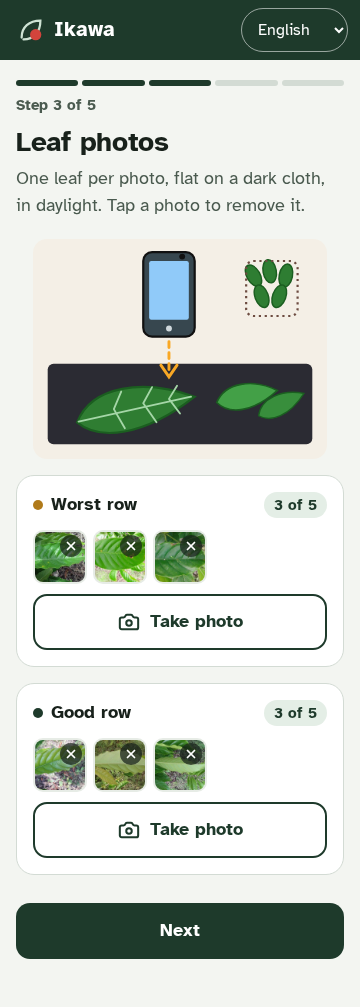
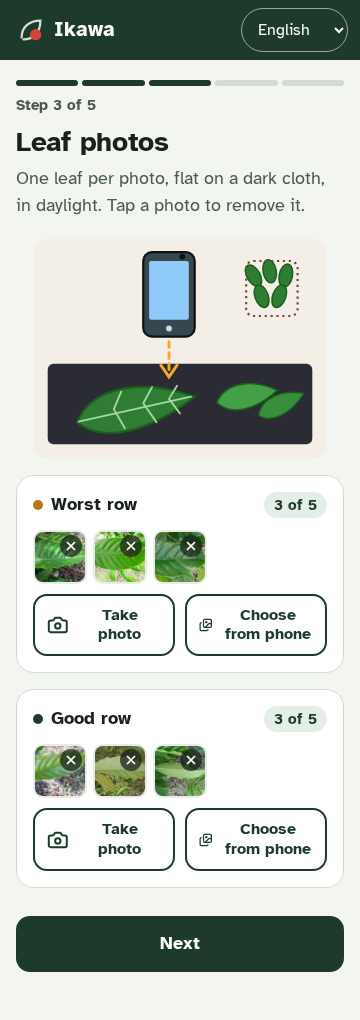
Photos: add 'Choose from phone' (gallery, several at once) next to 'Take photo'
The camera input keeps capture=environment; a second input without capture lets
the phone offer its gallery and files, and accepts multiple photos. Each file
goes through the same photo gate and model. New e2e test covers it.

diff --git a/app/src/screens/photos.tsx b/app/src/screens/photos.tsx
@@ -1,18 +1,25 @@
 import { useRef, useState } from 'preact/hooks'
-import { Camera, Loader2, X } from 'lucide-preact'
+import { Camera, Images, Loader2, X } from 'lucide-preact'
 import { go } from '../app'
 import { session, update, useSession, type Shot } from '../lib/session'
 import { processBlob } from '../lib/shots'
-import { t } from '../content/i18n'
+import { t, tOr } from '../content/i18n'
 import { MIN_LEAVES, TARGET_LEAVES } from '../lib/analyze'
 import { Btn, Screen, OptImg } from './ui'
 
 const REASON: Record<string, string> = { blurry: 'Blurry: hold still', too_dark: 'Too dark: find light', too_bright: 'Too bright: shade it' }
 
 function Bag({ title, tone, shots, onAdd, onRemove }: { title: string; tone: 'worst' | 'good'; shots: Shot[]; onAdd: (f: File) => Promise<void>; onRemove: (i: number) => void }) {
-  const ref = useRef<HTMLInputElement>(null)
+  const cam = useRef<HTMLInputElement>(null)
+  const gallery = useRef<HTMLInputElement>(null)
   const [busy, setBusy] = useState(false)
   const ok = shots.filter((s) => s.gate.ok).length
+  // Each chosen file goes through the same photo gate and model, one after another.
+  const addFiles = async (input: HTMLInputElement) => {
+    const files = Array.from(input.files ?? []); input.value = ''
+    if (!files.length) return
+    setBusy(true); try { for (const f of files) await onAdd(f) } finally { setBusy(false) }
+  }
   return (
     <section class={'bag ' + tone}>
       <div class="bag-head">
@@ -30,12 +37,17 @@ function Bag({ title, tone, shots, onAdd, onRemove }: { title: string; tone: 'wo
           ))}
         </div>
       )}
-      <input ref={ref} type="file" accept="image/*" capture="environment" hidden onChange={async (e) => {
-        const f = e.currentTarget.files?.[0]; e.currentTarget.value = ''
-        if (!f) return
-        setBusy(true); try { await onAdd(f) } finally { setBusy(false) }
-      }} />
-      <Btn kind="secondary" icon={busy ? Loader2 : Camera} disabled={busy} onClick={() => ref.current?.click()}>{busy ? 'Checking the photo…' : t('take_photo')}</Btn>
+      {/* `capture` opens the camera straight away; the second input has none, so the phone offers its gallery and files. */}
+      <input ref={cam} data-src="camera" type="file" accept="image/*" capture="environment" hidden onChange={(e) => addFiles(e.currentTarget)} />
+      <input ref={gallery} data-src="gallery" type="file" accept="image/*" multiple hidden onChange={(e) => addFiles(e.currentTarget)} />
+      {busy
+        ? <Btn kind="secondary" icon={Loader2} disabled>Checking the photos…</Btn>
+        : (
+          <div class="pair-row">
+            <Btn kind="secondary" icon={Camera} onClick={() => cam.current?.click()}>{t('take_photo')}</Btn>
+            <Btn kind="secondary" icon={Images} onClick={() => gallery.current?.click()}>{tOr('choose_photo', 'Choose from phone')}</Btn>
+          </div>
+        )}
     </section>
   )
 }

diff --git a/app/e2e/gallery.spec.ts b/app/e2e/gallery.spec.ts
@@ -1,0 +1,19 @@
+import { test, expect } from '@playwright/test'
+import { resolve } from 'node:path'
+const demo = (n: string) => resolve(import.meta.dirname, '../public/demo', n + '.jpg')
+
+// "Choose from phone": a gallery picker (no `capture`, so the phone does not force the camera) that accepts several photos at once.
+test('choose several photos from the phone at once', async ({ page }) => {
+  await page.goto('./#/home')
+  await page.getByLabel('PIN').fill('4821')
+  await page.getByRole('button', { name: /Set PIN|Unlock/ }).click()
+  await page.goto('./#/photos')
+  const worstGallery = page.locator('.bag.worst input[type=file][data-src=gallery]')
+  await expect(worstGallery).toHaveAttribute('multiple', '')
+  expect(await worstGallery.getAttribute('capture')).toBeNull()
+  expect(await page.locator('.bag.worst input[data-src=camera]').getAttribute('capture')).toBe('environment')
+  await expect(page.getByRole('button', { name: 'Choose from phone' }).first()).toBeVisible()
+  await worstGallery.setInputFiles([demo('rust1'), demo('rust2'), demo('rust3')])
+  await expect(page.locator('.bag.worst .thumb')).toHaveCount(3, { timeout: 60_000 })
+  await expect(page.locator('.bag.good .thumb')).toHaveCount(0)
+})

diff --git a/app/e2e/real.spec.ts b/app/e2e/real.spec.ts
@@ -13,7 +13,7 @@ async function run(page: Page, worst: string[], good: string[]) {
   await page.getByRole('button', { name: 'Next' }).click()
   await expect(page.getByRole('heading', { name: 'Voice setup' })).toBeVisible()
   await page.getByRole('button', { name: /Skip/ }).click()
-  const inputs = page.locator('input[type=file]')
+  const inputs = page.locator('input[type=file][data-src=camera]')
   for (const f of worst) await inputs.nth(0).setInputFiles(f)
   for (const f of good) await inputs.nth(1).setInputFiles(f)
   await expect(page.locator('.thumb')).toHaveCount(worst.length + good.length, { timeout: 60_000 })

diff --git a/app/e2e/healthy.spec.ts b/app/e2e/healthy.spec.ts
@@ -20,7 +20,7 @@ test('all-healthy leaves -> "Your leaves look healthy", no money card, SMS still
   for (const h of await page.getByRole('button', { name: /Yes/ }).all()) await h.click()
   await page.getByRole('button', { name: 'Next' }).click()
   await page.getByRole('button', { name: /Skip/ }).click()
-  const inputs = page.locator('input[type=file]')
+  const inputs = page.locator('input[type=file][data-src=camera]')
   for (const f of WORST) await inputs.nth(0).setInputFiles(f)
   for (const f of GOOD) await inputs.nth(1).setInputFiles(f)
   await expect(page.locator('.thumb')).toHaveCount(10, { timeout: 90_000 })

diff --git a/app/e2e/flow.ts b/app/e2e/flow.ts
@@ -32,7 +32,7 @@ export async function walk(page: Page, snap?: (name: string) => Promise<void>) {
   await s('05-voice-done')
   await btn('Next').click()
   await expect(page.getByRole('heading', { name: 'Leaf photos' })).toBeVisible()
-  const inputs = page.locator('input[type=file]')
+  const inputs = page.locator('input[type=file][data-src=camera]')
   for (const n of ['rust1', 'rust2', 'rust3']) await inputs.nth(0).setInputFiles(demo(n))
   for (const n of ['healthy1', 'healthy2', 'healthy3']) await inputs.nth(1).setInputFiles(demo(n))
   await expect(page.locator('.thumb')).toHaveCount(6, { timeout: 60_000 })

diff --git a/app/e2e/perf.spec.ts b/app/e2e/perf.spec.ts
@@ -13,7 +13,7 @@ test('perf at 4x CPU throttle + demo mode', async ({ page }) => {
   await expect(page.locator('.thumb')).toHaveCount(6)
   await expect(page.getByText('Guided demo.')).toBeVisible()
   // per-photo cost with a warm model
-  const input = page.locator('input[type=file]').first()
+  const input = page.locator('input[type=file][data-src=camera]').first()
   const t1 = Date.now()
   await input.setInputFiles(img('rust1'))
   await expect(page.locator('.thumb')).toHaveCount(7)

diff --git a/app/src/styles.css b/app/src/styles.css
@@ -220,3 +220,5 @@ main, .card { overflow-wrap: anywhere; }
 .btn.sel, .btn.ghost.sel { background: var(--canopy); color: var(--on-canopy); border-color: var(--canopy); }
 .verdict.cherry .pict.cherry { background: var(--paper); }
 .field.pin::placeholder { letter-spacing: normal; }
+.pair-row { display: grid; grid-template-columns: 1fr 1fr; gap: 10px; margin-top: 10px; }
+.pair-row .btn { margin: 0; padding: 10px 8px; font-size: 1rem; flex-direction: column; gap: 4px; min-height: 76px; }
